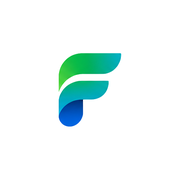
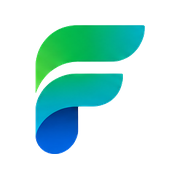
Fintra 9.6.0-beta.24

Changed region(s): [[0.1944, 0.1389, 0.8056, 0.8611]]

diff --git a/app/version.py b/app/version.py
@@ -1,1 +1,1 @@
-__version__ = '9.6.0-beta.23'
+__version__ = '9.6.0-beta.24'

diff --git a/RELEASE_NOTES.md b/RELEASE_NOTES.md
@@ -7,6 +7,14 @@ Die Einträge sind **absteigend nach Version** sortiert. Inhaltliche Aussagen au
 > **Hinweis:** Für Versionen, zu denen keine separate Notes-Datei vorlag, wurde kein Eintrag ergänzt. Dadurch bleibt die Historie auf die tatsächlich dokumentierten Änderungen beschränkt.
 
 ---
+## 9.6.0-beta.24
+
+### Logo-Assets
+- Favicon, Apple-Touch-Icon und weitere Branding-Dateien wurden auf die transparente Fintra-Marke ohne weißen Hintergrund umgestellt.
+- Damit entsprechen alle Icons jetzt dem Logo in der Navigationsleiste.
+
+---
+
 ## 9.6.0-beta.23
 
 ### Transaktionsseite mobil

diff --git a/README.md b/README.md
@@ -13,7 +13,7 @@ It provides yearly and monthly overviews, recurring income and expenses, budgets
 financial analysis and visualizations while keeping your financial data on your own server.
 
 > **Beta:** Fintra is currently under active development.  
-> The current release is `9.6.0-beta.23`.
+> The current release is `9.6.0-beta.24`.
 
 
 ## Screenshots
@@ -209,7 +209,7 @@ A healthy instance responds with:
 ```json
 {
   "status": "ok",
-  "version": "9.6.0-beta.23"
+  "version": "9.6.0-beta.24"
 }
 ```
 

diff --git a/CHANGELOG.md b/CHANGELOG.md
@@ -1,5 +1,11 @@
 # Changelog
 
+## 9.6.0-beta.24
+
+### Branding
+- Favicon und alle weiteren Logo-Assets auf die transparente Fintra-Marke ohne weißen Hintergrund umgestellt.
+- Browser-Tab, Touch-Icon und App-Icons verwenden jetzt denselben Look wie das Logo in der Navigationsleiste.
+
 ## 9.6.0-beta.23
 
 ### Mobile UI

diff --git a/deploy/README-TRUENAS.md b/deploy/README-TRUENAS.md
@@ -30,7 +30,7 @@ beobachten kann, während GitHub bei jedem expliziten Fintra-Release dessen Dige
 Fintra veröffentlicht `latest` nur bei einem Git-Tag wie:
 
 ```text
-v9.6.0-beta.23
+v9.6.0-beta.24
 ```
 
 Dadurch ist ein einfacher Push auf `main` noch kein Server-Update.
